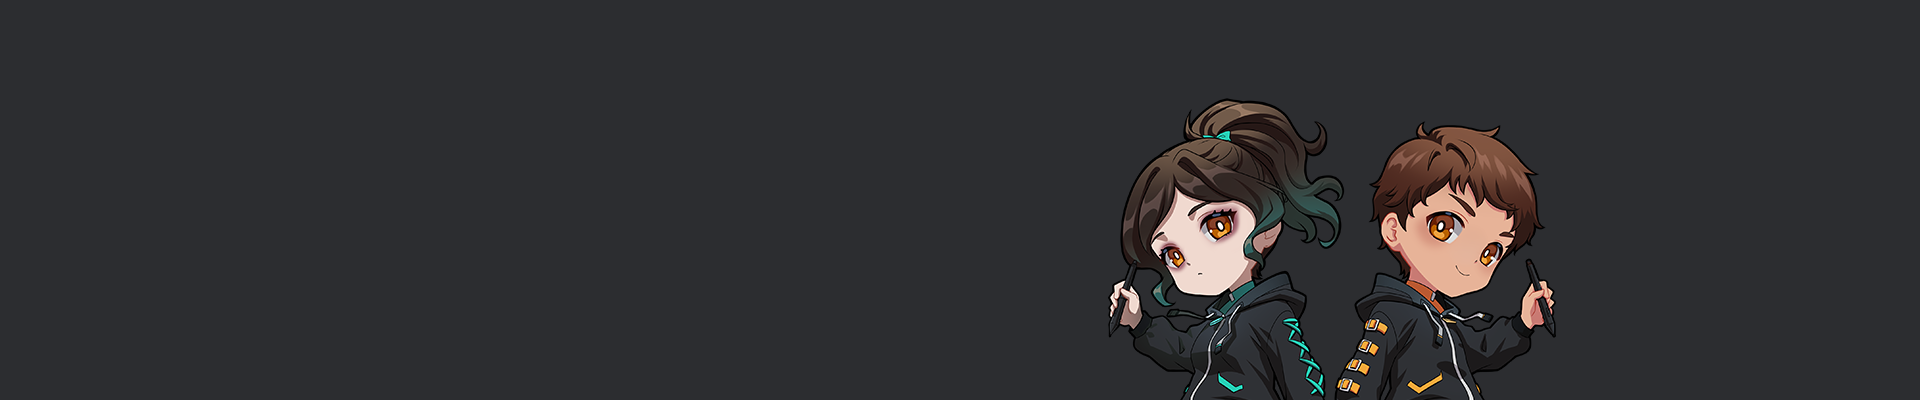
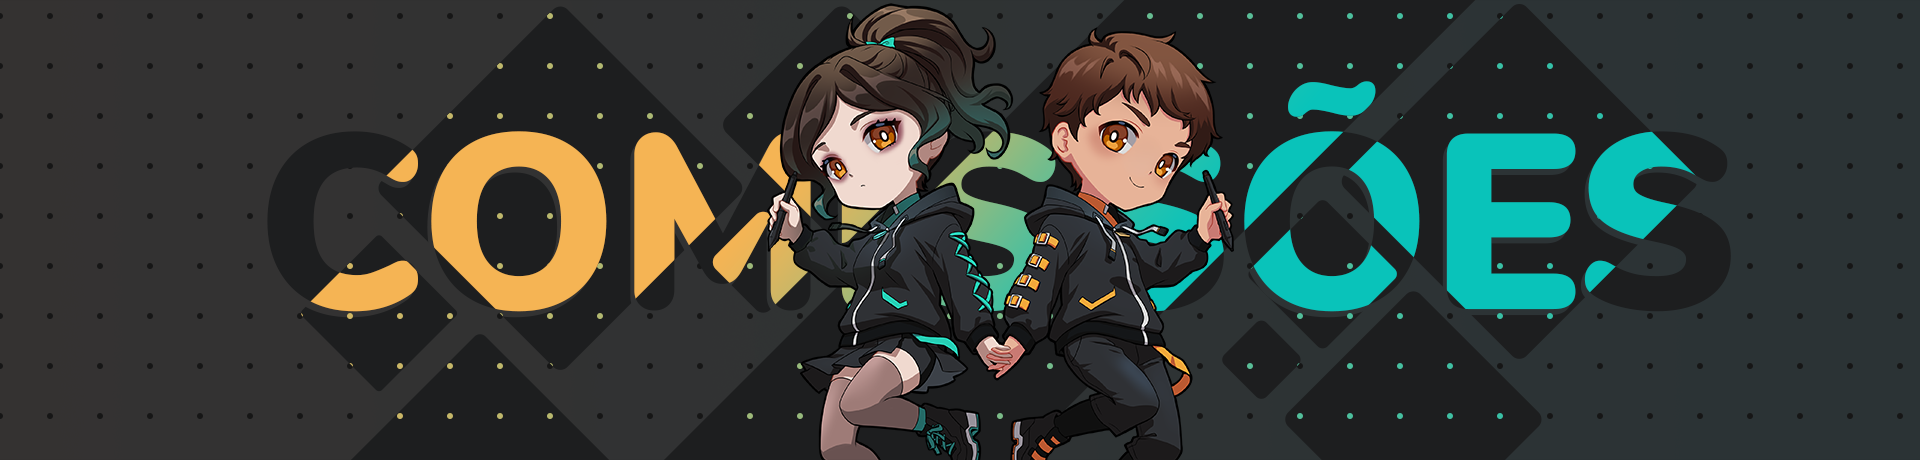
ajustes homepage

Changed region(s): [[0.1562, 0.0, 0.875, 1.0]]

diff --git a/assets/css/style.css b/assets/css/style.css
@@ -30,7 +30,7 @@ textarea {
     --dark-bg2: #0c0c0c;
 
     /*colors*/
-    --teal: #17b19c;
+    --teal: #09c3ba;
     --orange: #f5b454;
 
     /*color status*/
@@ -39,7 +39,6 @@ textarea {
 
     /*gradients*/
     --gradient01: linear-gradient(45deg, var(--teal), var(--orange));
-    --gradient-gray: linear-gradient(0deg, #0c0c0cb6, 80%, #2c2d306c);
 
     /*box shadow*/
     --box-shadow: rgba(0, 0, 0, 0.1) 0px 3px 3px, rgba(0, 0, 0, 0.1) 0px 3px 3px;
@@ -330,14 +329,14 @@ hr {
     max-width: 1160px !important;
     width: 100%;
     margin: 0 auto !important;
-    padding: 2rem;
+    padding: 4rem 2rem;
 }
 
 /*---------- min height pages ----------*/
 
 main {
-    margin-top:8rem ;
     min-height: calc(100vh - 20rem);
+    margin: 0 auto;
     padding: 0;
 }
 
@@ -382,18 +381,10 @@ main {
 /* ==================== HEADER ====================*/
 
 #header {
-    position: fixed;
-    top: 0;
-    left: 0;
     height: 8rem;
     width: 100%;
-    z-index: 2;
-
-    background: #2c2d30a1;
-    backdrop-filter: blur(10px);
-    border-radius: 0 0 5px 5px;
-    box-shadow: var(--box-shadow);
 }
+
 
 #header .container {
     padding: 2rem;
@@ -448,77 +439,66 @@ main {
     display: none;
 }
 
-/* ==================== HERO ====================*/
+/* ==================== HOMEPAGE ====================*/
 
 #hero {
-    width: 100%;
-    background: var(--gray-bg1) url(../img/halftonepatternbase_50p.png) bottom left repeat-x;
-    overflow: hidden;
-    margin-bottom: 2rem;
-}
-
-.header__hero {
+    background: url(../img/hero_bg.png) top center no-repeat;
+    min-height: 45rem;
+    background-size: cover;
     position: relative;
+    overflow: hidden;
 }
 
-.header__hero--left {
-    padding: 4rem 0;
-    width: 50%;
+#hero .container {
+    padding: 0;
 }
 
-.header__hero--left h1 {
-    color: var(--orange);
-}
-
-.header__hero-img {
-    max-width: 43rem;
-    width: 100%;
+.img_hero_1 {
     position: absolute;
-    top: 0;
-    right: 0;
+    left:50%;
+    transform: translate(-50%);
+    background-size: contain;
+}
+.img_hero_2 {
+    position: absolute;
+    left:50%;
+    transform: translate(-50%);
+    background-size: contain;
 }
 
-/* ==================== CATEGORIES ====================*/
+.hero__txt {
+    align-items: flex-end;
+}
+
+/*==================== CATEGORIES ====================*/
 .categorie__item {
-    box-shadow: var(--box-shadow);
-    border-radius: var(--border-radius);
-    height: 25rem;
-    text-align: center;
-    flex: 1 1 25rem;
-    overflow: hidden;
+    flex: 1 1 auto;
     background: var(--gray-bg1);
-    position: relative;
+    border-radius: var(--border-radius);
+    max-width: 52.5rem;
+    overflow: hidden;
 }
 
 .categorie__img {
-    transition: .4s;
+    height: 25rem;
+    overflow: hidden;
+    background: var(--dark-bg2);
+}
+
+.categorie__item h3 {
+    padding: 2rem;
+    text-align: center;
 }
 
 .categorie__img img {
-    width: 100% !important;
-    object-fit: cover;
-}
-
-.categorie__content {
-    position: absolute;
-    top: 0;
-    left: 0;
     width: 100%;
-    height: 100%;
-    display: flex;
-    flex-direction: column;
-    justify-content: flex-end;
-    padding: 2rem;
-    border-radius: var(--border-radius);
-    background-image: linear-gradient(#2c2d30c7, #2c2d30c7);
+    transition: .4s;
+    opacity: .5;
 }
 
-.categorie__content h3 {
-    margin-bottom: 2rem;
-}
-
-.categorie__item:hover .categorie__img {
+.categorie__item:hover .categorie__img img {
     transform: scale(1.1);
+    opacity: 1;
 }
 
 /*==================== COMMISSIONS ====================*/
@@ -587,6 +567,7 @@ main {
 .comm__price--style img {
     display: block;
     max-width: 34.5rem;
+    height: auto;
     object-fit: cover;
 }
 
@@ -650,6 +631,7 @@ NOTES
 .comm__notes--dos h3 {
     margin-bottom: 2rem;
 }
+
 .comm__notes--do i {
     color: var(--green);
     font-size: 1.5rem;
@@ -1023,6 +1005,7 @@ form {
         transition: .4s;
         visibility: hidden;
         overflow-y: hidden;
+
     }
 
     #navbar.active-menu #nav__menu {
@@ -1034,6 +1017,7 @@ form {
     #nav__menu a {
         padding: 2rem;
         margin: 0 1rem;
+        text-align: center;
         border-bottom: 0.1rem solid var(--dark-bg1);
     }
 

diff --git a/index.html b/index.html
@@ -57,57 +57,42 @@
 
       <section id="hero">
 
-         <div class="header__hero  container wrap g-40 a-center space-b">
-
-            <div class="header__hero--left column g-20">
-
-               <h1>Ilustrações exclusivas, emotes e muito mais.</h1>
-               <p class="paragraph"> Aqui você encontrará detalhes sobre os serviços que oferecemos e como
-                  trabalhamos.
-                  Estamos ansiosos para colaborar com você e transformar suas idéias em artes incríveis! </p>
-            </div>
-
-            <figure>
-               <img class="header__hero-img" src="./assets/img/couplechibishero.png" alt="">
-            </figure>
-
+         <div class=" container hero_txt">
+            <img class="img_hero_1" src="./assets/img/hero_img1.png" alt="">
+            <img class="img_hero_2" src="./assets/img/hero_img_chibis.png" alt="">
          </div>
+
       </section>
 
 
-      <section class="categories container wrap g-40 a-center">
+      <section class="categories container wrap g-40 j-center">
 
-         <!--card 01 - illustrations-->
-         <div class="categorie__item">
-            <div class="categorie__img"><img src="./assets/img/img1_illustration.png" alt=""></div>
-            <div class="categorie__content">
-               <h3>Ilustrações</h3>
-               <a href="./ilustracoes.html"><button class=" btn btn1">Mais informações</button></a>
+         <!--categoria 01-->
+         <a class="categorie__item" href="./ilustracoes.html">
+            <div class="categorie__img">
+               <img src="./assets/img/img1_illustration.png" alt="Ilustração">
             </div>
-         </div>
-         <!--end card-->
+            <h3>Ilustrações</h3>
+         </a>
 
-         <!--card 02 - Stream graphics-->
-         <div class="categorie__item">
-            <div class="categorie__img"><img src="./assets/img/img2_graphics.png" alt=""></div>
-            <div class="categorie__content">
-               <h3 class="categorie__item-name">Emotes & Badges</h3>
-               <a href="./graficos.html"><button class=" btn btn1">Mais informações</button></a>
+         <!--categoria 01-->
+         <a class="categorie__item" href="./graficos.html">
+            <div class="categorie__img">
+               <img src="./assets/img/img2_graphics.png" alt="Banner e badges">
             </div>
-         </div>
-         <!--end card-->
+            <h3>Emotes e badges</h3>
+         </a>
 
-         <!--card 03 - PNG TUBER-->
-         <div class="categorie__item">
-            <div class="categorie__img"><img src="./assets/img/img3_pngtuber.png" alt=""></div>
-            <div class="categorie__content">
-               <h3 class="categorie__item-name">Modelos PNGtuber</h3>
-               <a href="#products"><button class=" btn btn1">Em breve</button></a>
+         <!--categoria 01-->
+         <a class="categorie__item" href="#">
+            <div class="categorie__img">
+               <img src="./assets/img/img3_pngtuber.png" alt="Pngtuber">
             </div>
-         </div>
-         <!--end card-->
+            <h3>PNGtuber</h3>
+         </a>
 
 
+      </section>
 
       </section>
 
